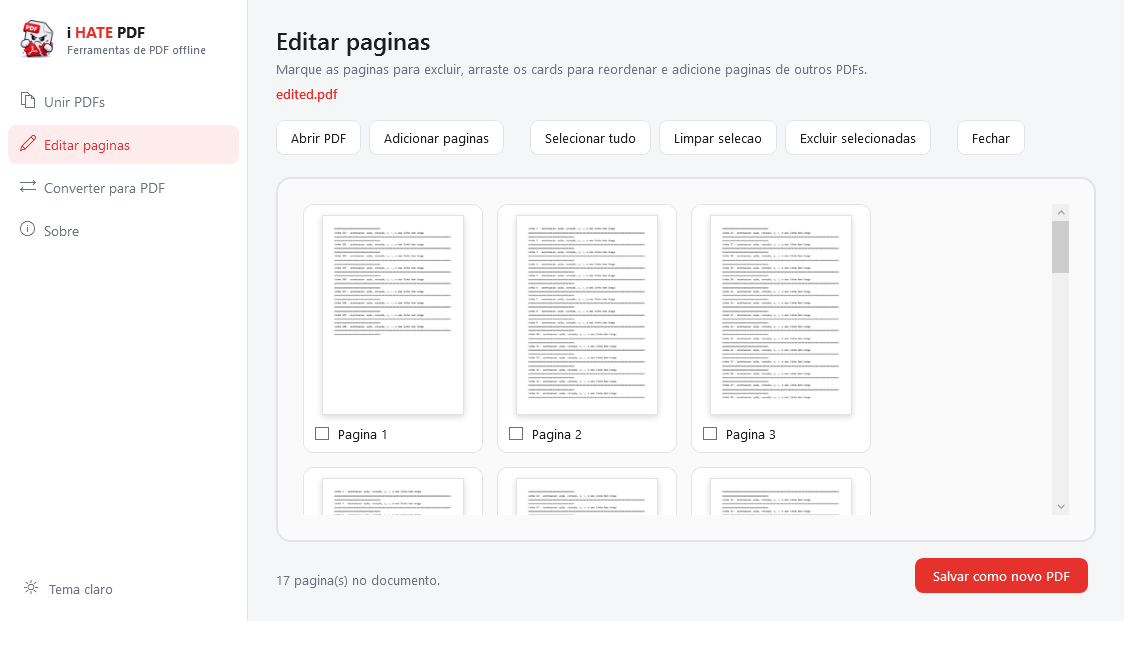
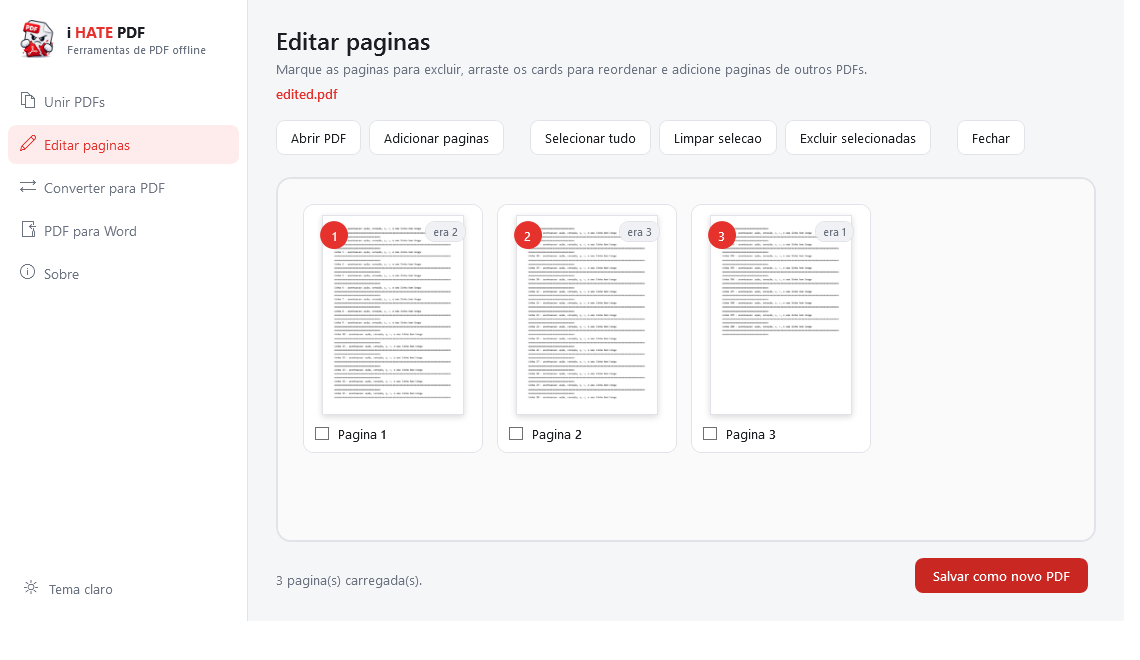
feat: editor mostra as duas numeracoes e melhora o arraste
Cada card agora traz a posicao nova (badge sobre a miniatura) e, quando a
pagina saiu do lugar, a posicao original ao lado ("era 3"). Sem isso nao
havia como conferir a reorganizacao antes de salvar.

Arraste: o que segue o cursor deixa de ser a copia do card inteiro, que
tapava a grade justamente onde a pagina ia cair, e passa a ser uma
miniatura pequena e inclinada com o numero da pagina. A linha de insercao
usa a cor de destaque, o card ganha cursor de mao, tooltip e realce ao
pairar, e o arraste exige 6px de movimento para nao disparar em cliques
na checkbox.

diff --git a/Views/EditorView.xaml b/Views/EditorView.xaml
@@ -8,6 +8,46 @@
              d:DataContext="{d:DesignInstance Type=vm:EditorViewModel}"
              mc:Ignorable="d">
 
+    <UserControl.Resources>
+        <!-- O que segue o cursor durante o arraste: uma miniatura leve e
+             inclinada, em vez da copia do card inteiro (que tapava a grade
+             e escondia justamente o ponto onde a pagina vai cair). -->
+        <DataTemplate x:Key="PageDragAdorner">
+            <Border Background="White"
+                    BorderBrush="{DynamicResource AccentBrush}"
+                    BorderThickness="2"
+                    CornerRadius="4"
+                    Padding="2"
+                    Opacity="0.85"
+                    RenderTransformOrigin="0.5,0.5">
+                <Border.RenderTransform>
+                    <RotateTransform Angle="-4" />
+                </Border.RenderTransform>
+                <Border.Effect>
+                    <DropShadowEffect BlurRadius="16" ShadowDepth="4" Direction="270" Opacity="0.35" Color="#000000" />
+                </Border.Effect>
+                <Grid>
+                    <Image Source="{Binding Thumbnail}"
+                           Width="104"
+                           Stretch="Uniform"
+                           RenderOptions.BitmapScalingMode="HighQuality" />
+                    <Border Width="24" Height="24" CornerRadius="12"
+                            Margin="4"
+                            HorizontalAlignment="Left"
+                            VerticalAlignment="Top"
+                            Background="{DynamicResource AccentBrush}">
+                        <TextBlock Text="{Binding DisplayNumber, Mode=OneWay}"
+                                   FontSize="11"
+                                   FontWeight="SemiBold"
+                                   Foreground="{DynamicResource OnAccentBrush}"
+                                   HorizontalAlignment="Center"
+                                   VerticalAlignment="Center" />
+                    </Border>
+                </Grid>
+            </Border>
+        </DataTemplate>
+    </UserControl.Resources>
+
     <Grid Margin="28,24,28,20">
         <Grid.RowDefinitions>
             <RowDefinition Height="Auto" />
@@ -59,7 +99,12 @@
                          Visibility="{Binding Pages.Count, Converter={StaticResource EmptyToVisibility}, ConverterParameter=invert}"
                          dd:DragDrop.IsDragSource="True"
                          dd:DragDrop.IsDropTarget="True"
-                         dd:DragDrop.UseDefaultDragAdorner="True">
+                         dd:DragDrop.SelectDroppedItems="False"
+                         dd:DragDrop.DragAdornerTemplate="{StaticResource PageDragAdorner}"
+                         dd:DragDrop.DropTargetAdornerBrush="{DynamicResource AccentBrush}"
+                         dd:DragDrop.DragMouseAnchorPoint="0.5,0.5"
+                         dd:DragDrop.MinimumHorizontalDragDistance="6"
+                         dd:DragDrop.MinimumVerticalDragDistance="6">
                     <ListBox.ItemsPanel>
                         <ItemsPanelTemplate>
                             <WrapPanel Orientation="Horizontal" />
@@ -88,7 +133,9 @@
                                     BorderBrush="{DynamicResource BorderBrushSoft}"
                                     BorderThickness="1"
                                     CornerRadius="10"
-                                    Padding="10">
+                                    Padding="10"
+                                    Cursor="Hand"
+                                    ToolTip="Arraste para mudar a posicao desta pagina">
                                 <StackPanel>
                                     <Grid Height="200">
                                         <!-- A folha ganha borda e sombra para nao se fundir com o card. -->
@@ -112,6 +159,38 @@
                                                    HorizontalAlignment="Center"
                                                    VerticalAlignment="Center"
                                                    Visibility="{Binding IsLoading, Converter={StaticResource BoolToVisibility}}" />
+
+                                        <!-- Posicao atual: o numero que a pagina tera no PDF salvo -->
+                                        <Border Width="28" Height="28" CornerRadius="14"
+                                                Margin="6"
+                                                HorizontalAlignment="Left"
+                                                VerticalAlignment="Top"
+                                                Background="{DynamicResource AccentBrush}">
+                                            <TextBlock Text="{Binding DisplayNumber, Mode=OneWay}"
+                                                       FontSize="12.5"
+                                                       FontWeight="SemiBold"
+                                                       Foreground="{DynamicResource OnAccentBrush}"
+                                                       HorizontalAlignment="Center"
+                                                       VerticalAlignment="Center" />
+                                        </Border>
+
+                                        <!-- Numeracao de origem, so quando a pagina saiu do lugar -->
+                                        <Border CornerRadius="9"
+                                                Margin="6"
+                                                Padding="7,3"
+                                                HorizontalAlignment="Right"
+                                                VerticalAlignment="Top"
+                                                Background="{DynamicResource CardHoverBrush}"
+                                                BorderBrush="{DynamicResource BorderBrushSoft}"
+                                                BorderThickness="1"
+                                                ToolTip="Posicao desta pagina no arquivo de origem"
+                                                Visibility="{Binding HasMoved, Converter={StaticResource BoolToVisibility}}">
+                                            <TextBlock FontSize="10.5"
+                                                       Foreground="{DynamicResource TextSecondaryBrush}">
+                                                <Run Text="era" />
+                                                <Run Text="{Binding OriginalNumber, Mode=OneWay}" FontWeight="SemiBold" />
+                                            </TextBlock>
+                                        </Border>
                                     </Grid>
 
                                     <Grid Margin="0,10,0,0">
@@ -128,7 +207,7 @@
                                         <StackPanel Grid.Column="1" Margin="8,0,0,0">
                                             <TextBlock Foreground="{DynamicResource TextPrimaryBrush}" FontSize="12.5">
                                                 <Run Text="Pagina" />
-                                                <Run Text="{Binding DisplayNumber, Mode=OneWay}" />
+                                                <Run Text="{Binding DisplayNumber, Mode=OneWay}" FontWeight="SemiBold" />
                                             </TextBlock>
                                             <!-- Origem so aparece quando a pagina veio de outro arquivo. -->
                                             <TextBlock Text="{Binding SourceFileName}"
@@ -144,6 +223,11 @@
                             </Border>
 
                             <DataTemplate.Triggers>
+                                <!-- Pairar ja indica que o card e agarravel -->
+                                <Trigger SourceName="Card" Property="IsMouseOver" Value="True">
+                                    <Setter TargetName="Card" Property="BorderBrush" Value="{DynamicResource AccentBrush}" />
+                                    <Setter TargetName="Card" Property="Background" Value="{DynamicResource CardHoverBrush}" />
+                                </Trigger>
                                 <DataTrigger Binding="{Binding IsSelected}" Value="True">
                                     <Setter TargetName="Card" Property="BorderBrush" Value="{DynamicResource AccentBrush}" />
                                     <Setter TargetName="Card" Property="BorderThickness" Value="2" />

diff --git a/Models/PageItem.cs b/Models/PageItem.cs
@@ -21,6 +21,17 @@ public partial class PageItem : ObservableObject
     /// <summary>Posicao 1..N na ordem atual do editor. Atualizada pelo ViewModel.</summary>
     [ObservableProperty] private int _displayNumber;
 
+    /// <summary>Numero que a pagina tinha no arquivo de origem.</summary>
+    public int OriginalNumber => PageIndex + 1;
+
+    /// <summary>
+    /// true quando a posicao atual difere da original (ou a pagina veio de
+    /// outro arquivo): so nesse caso vale mostrar as duas numeracoes.
+    /// </summary>
+    public bool HasMoved => DisplayNumber != OriginalNumber || IsFromOtherFile;
+
+    partial void OnDisplayNumberChanged(int value) => OnPropertyChanged(nameof(HasMoved));
+
     /// <summary>Miniatura ja congelada (Freeze) para uso seguro na thread de UI.</summary>
     [ObservableProperty] private BitmapSource? _thumbnail;
 
@@ -29,6 +40,8 @@ public partial class PageItem : ObservableObject
 
     /// <summary>true quando a pagina veio de um PDF diferente do documento aberto.</summary>
     [ObservableProperty] private bool _isFromOtherFile;
+
+    partial void OnIsFromOtherFileChanged(bool value) => OnPropertyChanged(nameof(HasMoved));
 
     public string SourceFileName => Path.GetFileName(SourcePath);
 

diff --git a/README.md b/README.md
@@ -44,7 +44,7 @@ Arraste vários PDFs. Cada um vira um **card com a capa visível** e um número 
 <td width="33%" valign="top">
 
 ### ✂ Editar páginas
-Abra um PDF e veja **cada página como miniatura**. Marque as que morrem, arraste as que ficam, puxe páginas de outro arquivo. Salva como um PDF novo — o original não é tocado.
+Abra um PDF e veja **cada página como miniatura**. Marque as que morrem, arraste as que ficam, puxe páginas de outro arquivo. Cada card mostra a **posição nova** e a **original** (`era 3`), então dá para conferir a reorganização antes de salvar. Salva como um PDF novo — o original não é tocado.
 
 </td>
 <td width="33%" valign="top">
